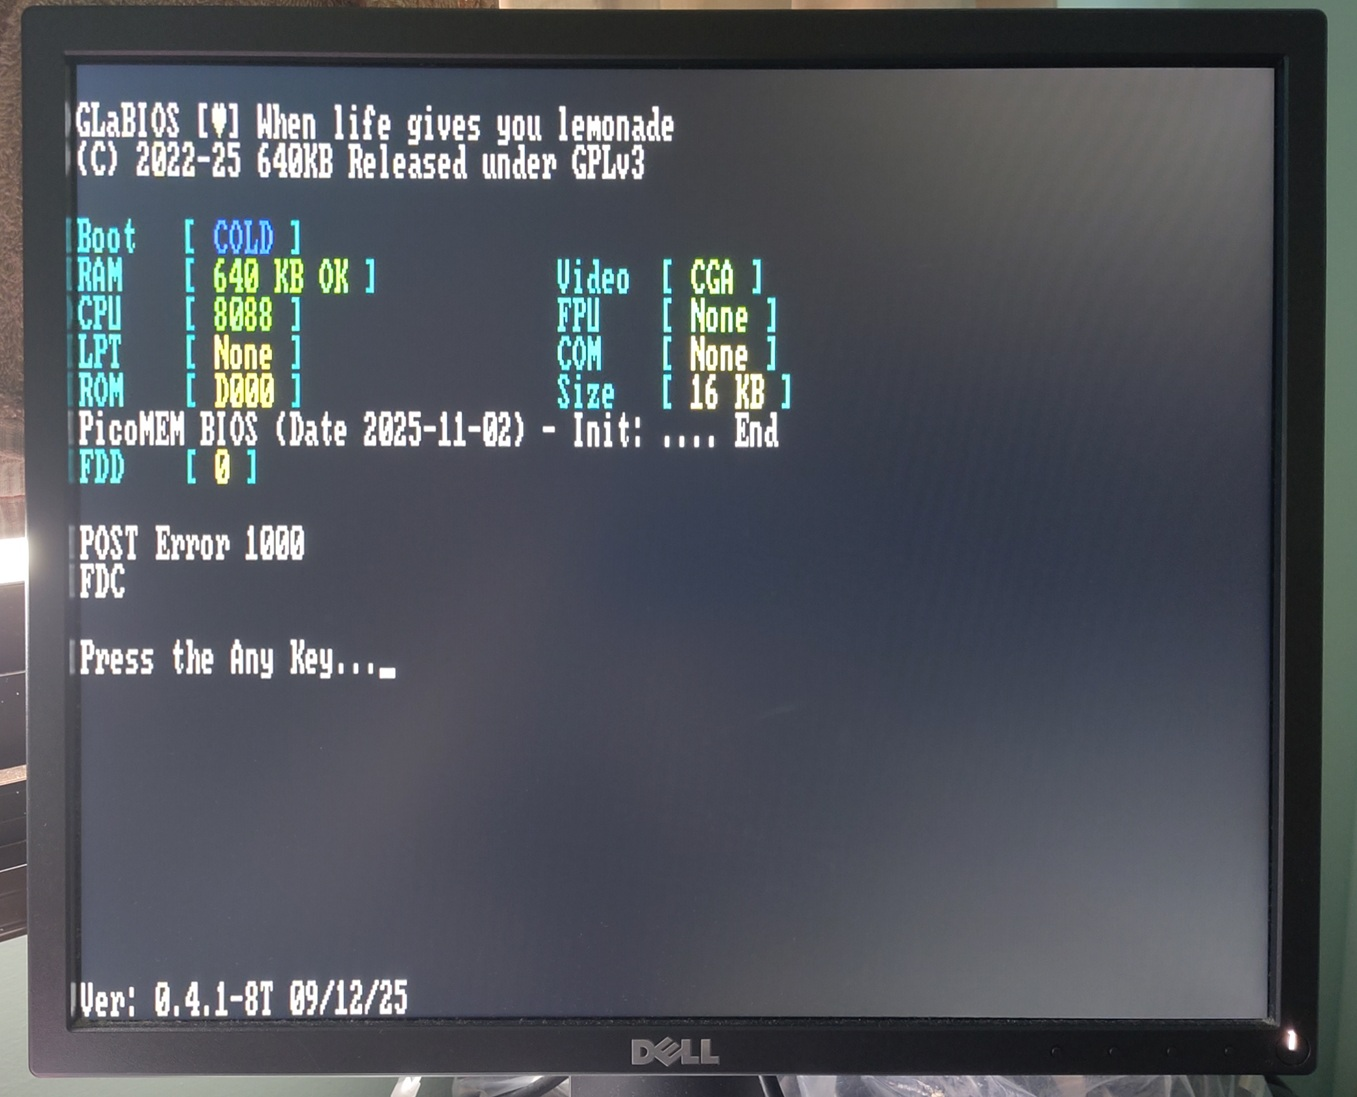
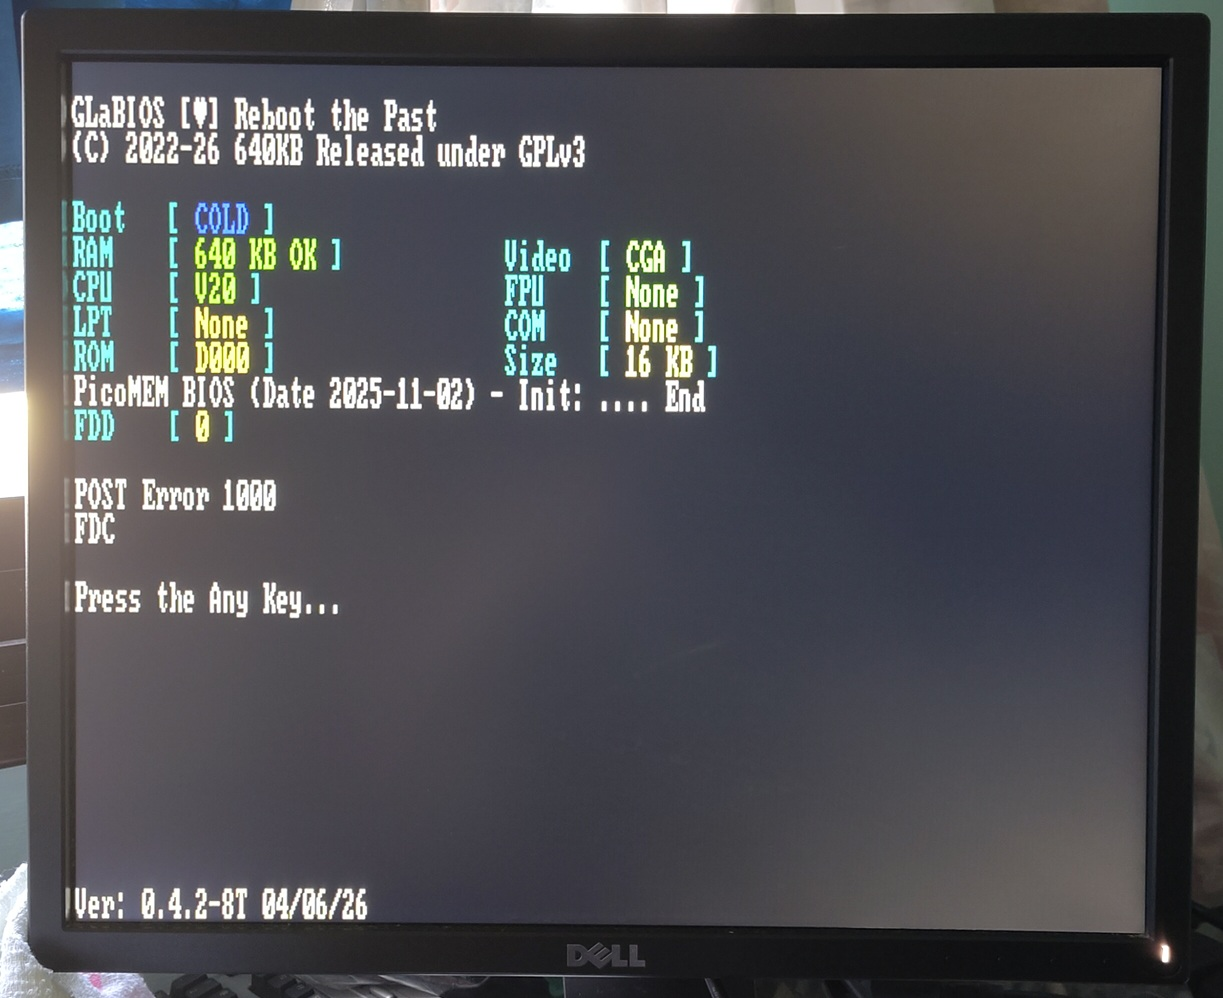
3c509

Changed region(s): [[0.0, 0.0, 1.0, 1.0]]

diff --git a/desktops/xt-test-bench/README.md b/desktops/xt-test-bench/README.md
@@ -37,6 +37,10 @@ copy /b GLABIOS_0.4.2_8T.rom + GLABIOS_0.4.2_8T.rom + GLABIOS_0.4.2_8T.rom + GLA
 
 ## Expansion Cards:
 
+<img src="photos/xttest-cards.jpg" width="500">
+
+Cards placed nearer higher up to reduce signal lengths to CPU.
+
 <img src="photos/gg-hdmi-board.jpg" width="500">
 
 [Graphics Gremlin HDMI](https://github.com/yeokm1/graphics-gremlin-hdmi) CGA graphics card.
@@ -45,7 +49,7 @@ copy /b GLABIOS_0.4.2_8T.rom + GLABIOS_0.4.2_8T.rom + GLABIOS_0.4.2_8T.rom + GLA
 
 [Picomem Audio Edition](https://www.serdashop.com/PicoMEM) acting as HDD emulator, Wireless NE2000 emulator and Expanded Memory.
 
-<img src="photos/xttest-cards.jpg" width="500">
+<img src="photos/xttest-3c509.jpg" width="500">
 
 3Com EtherLink III 3C509B ethernet card for LAN connection if needed.
 
